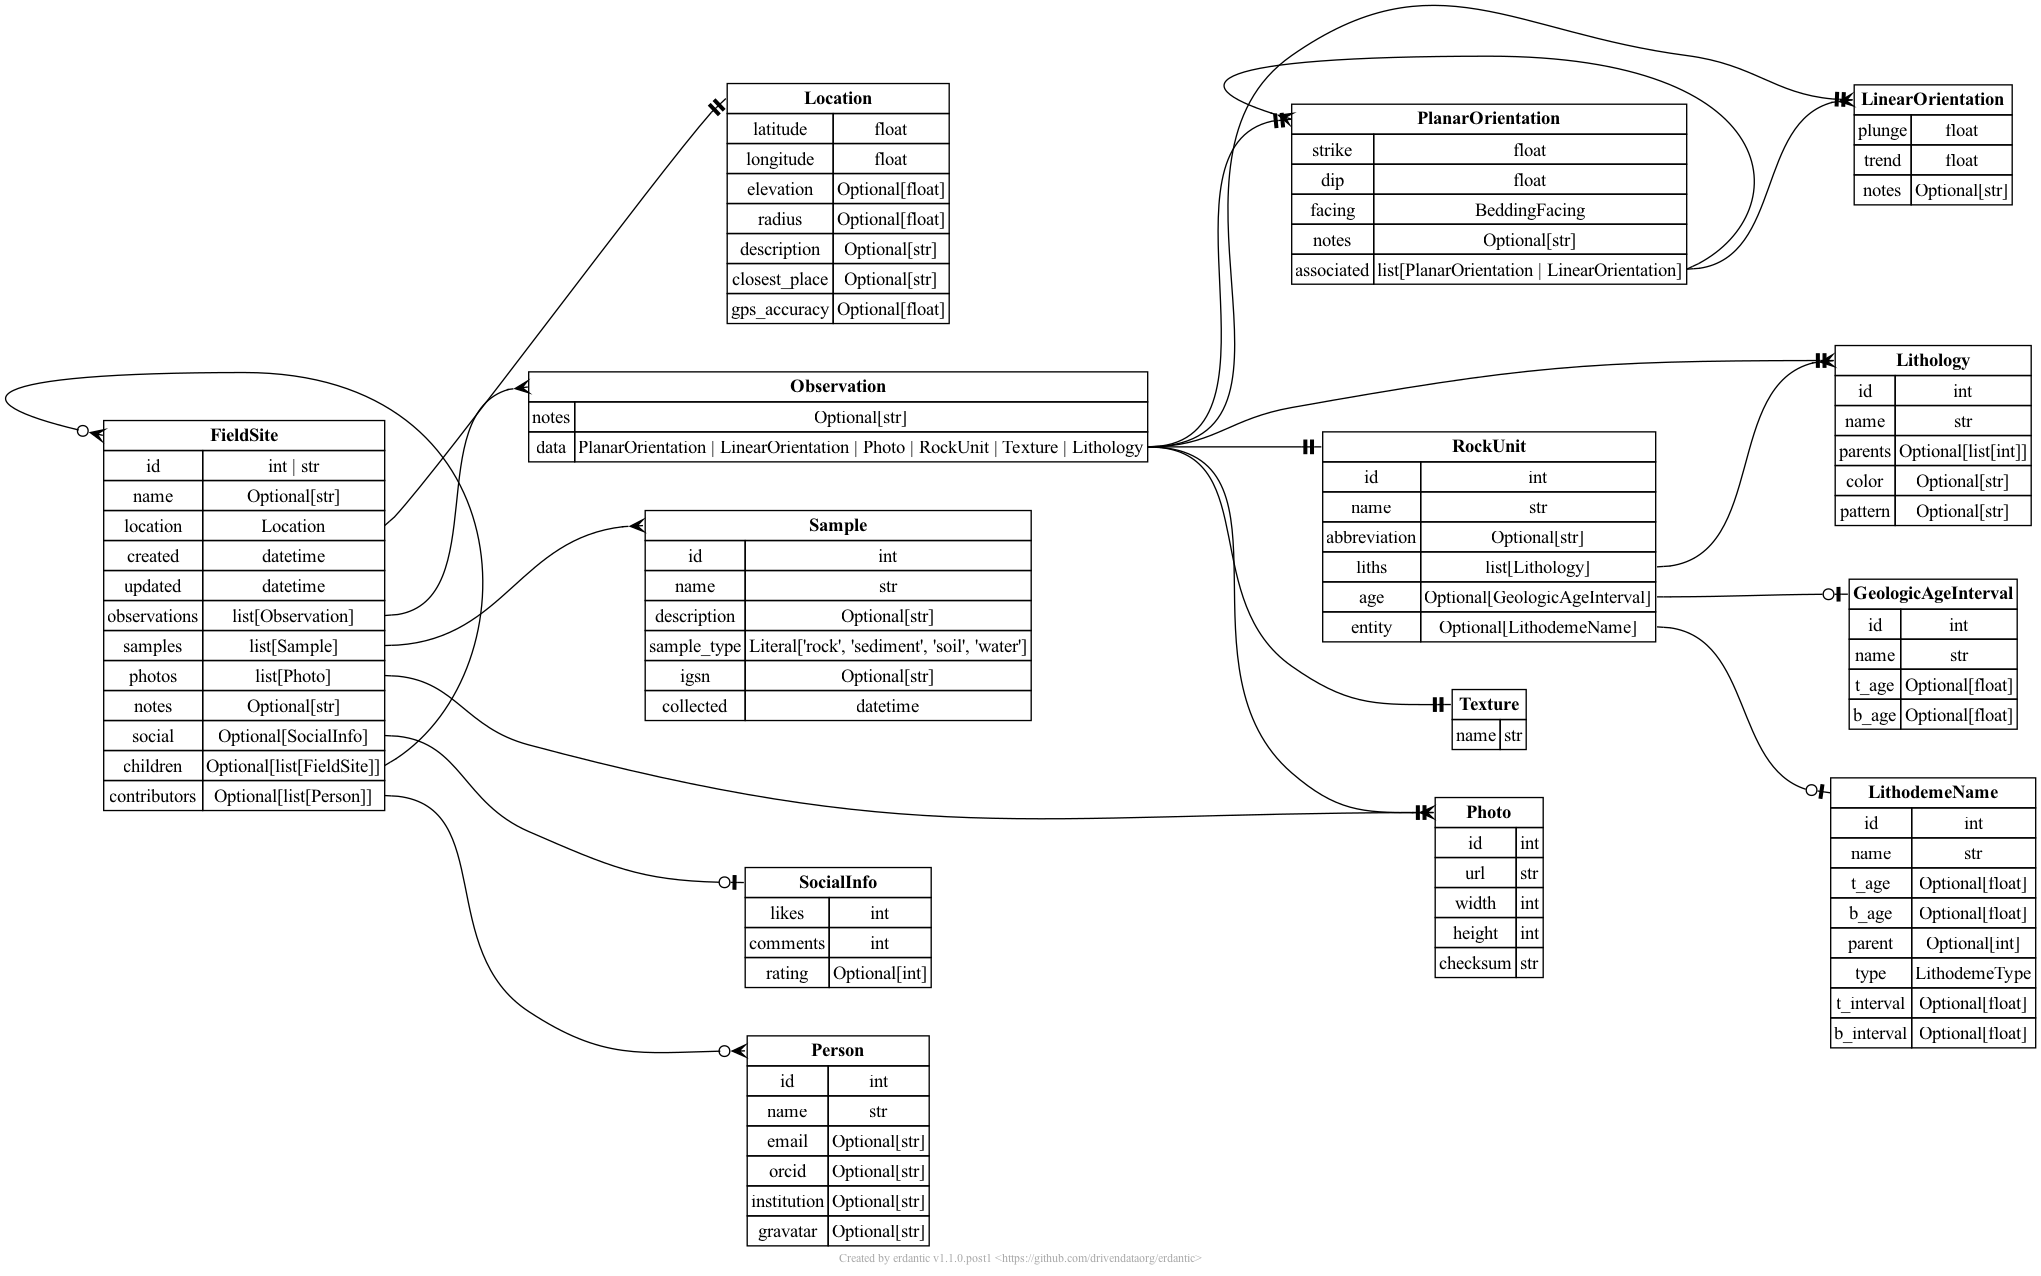
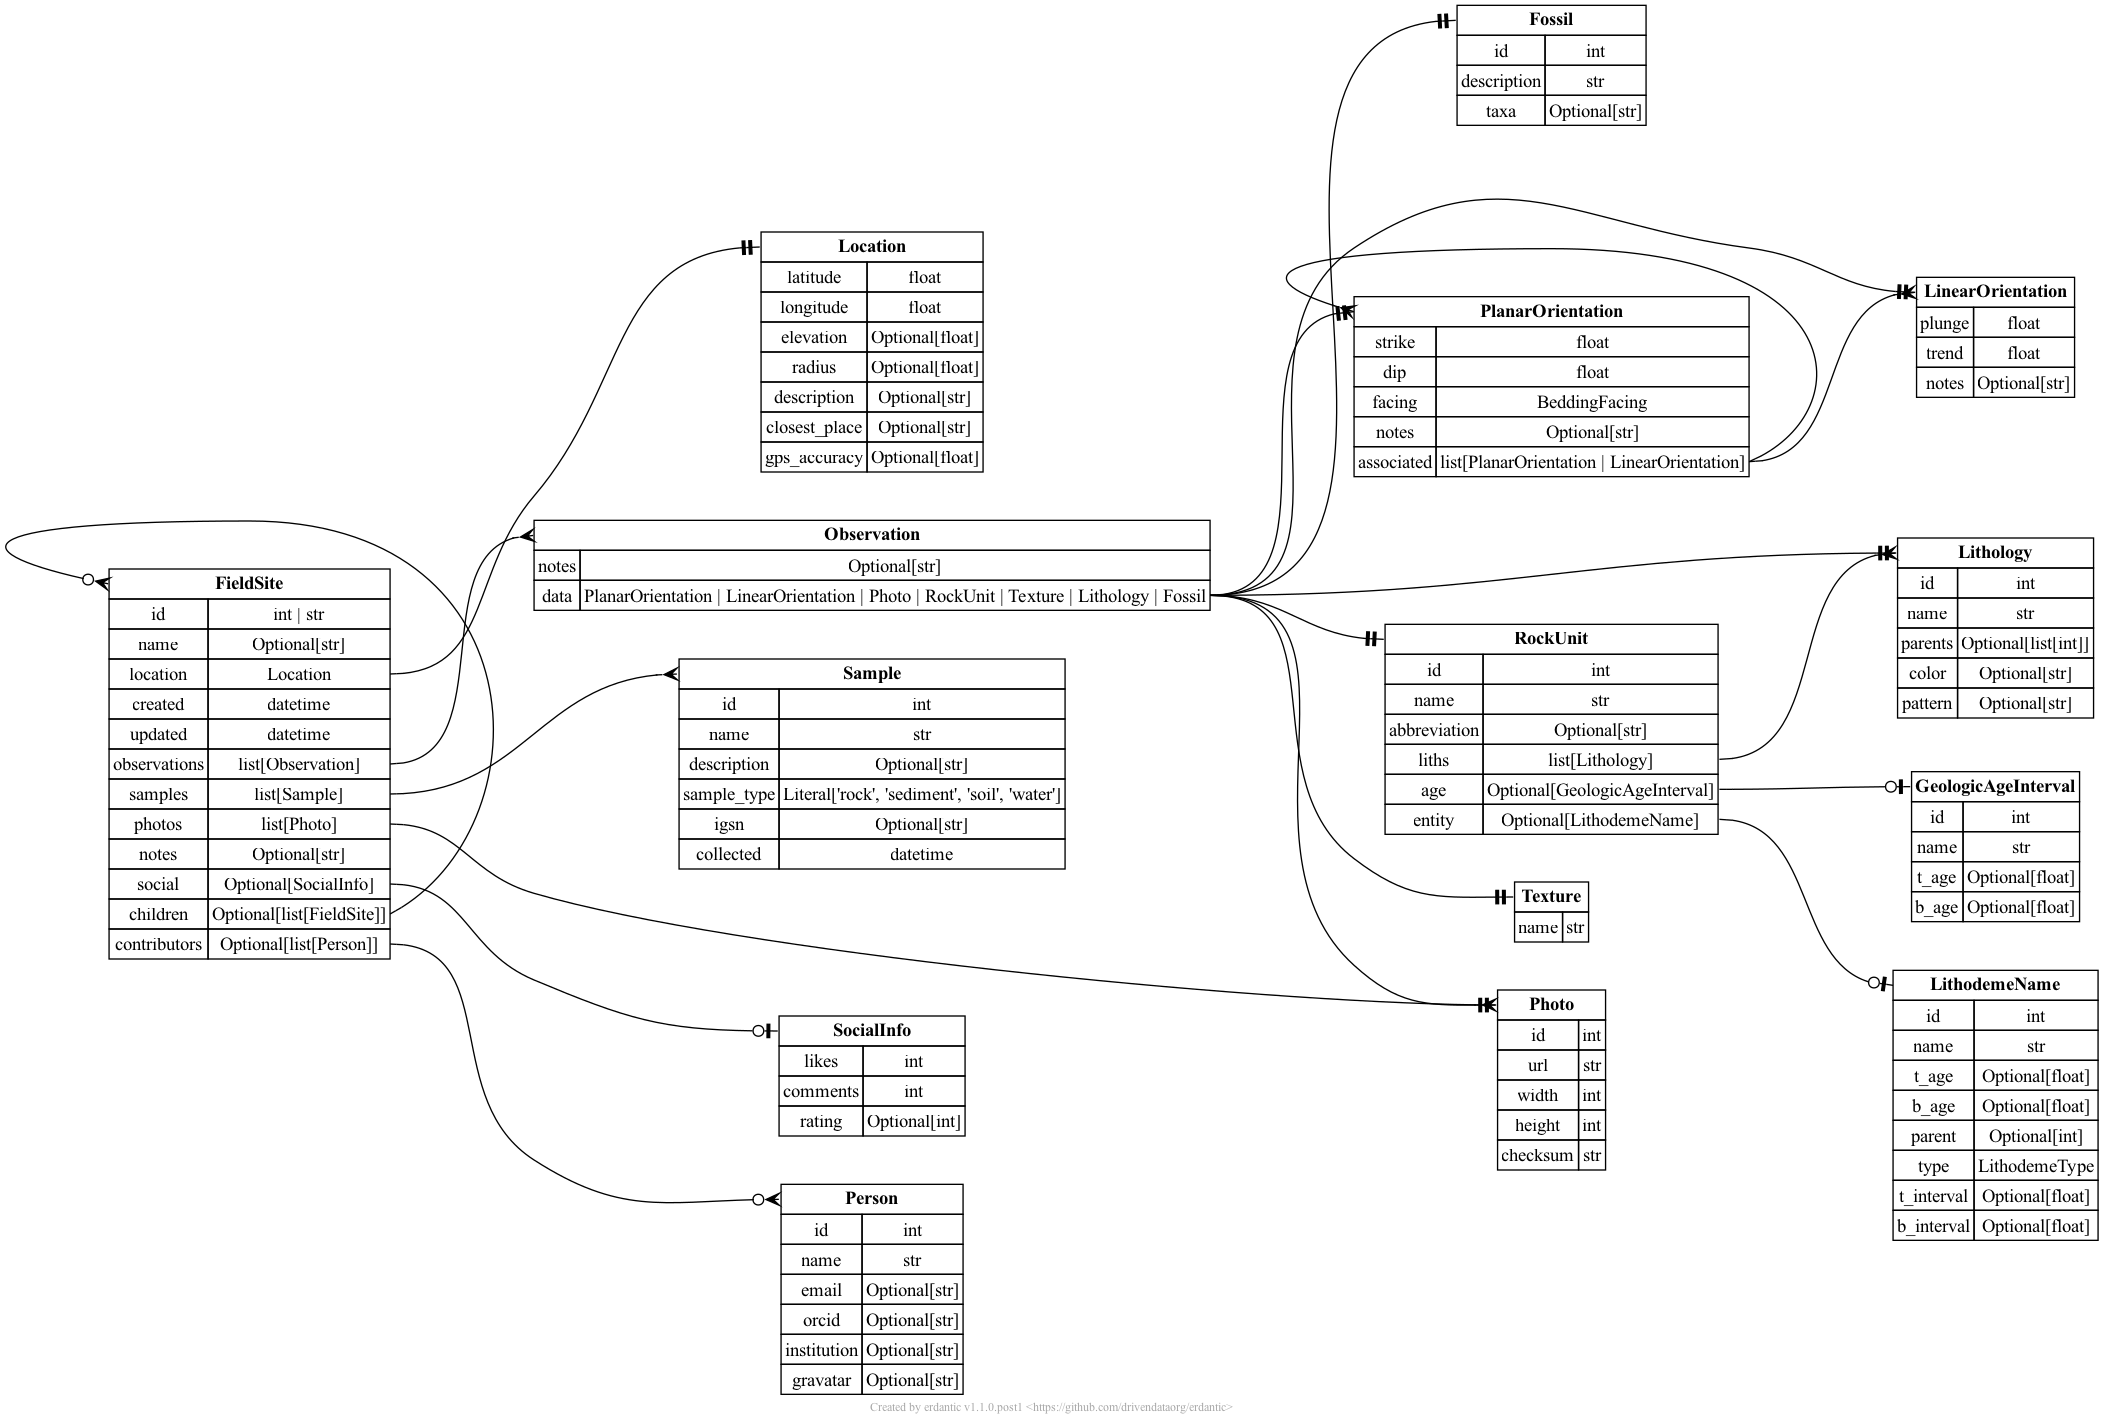
updated schemas

diff --git a/field_site_schemas/__init__.py b/field_site_schemas/__init__.py
@@ -90,7 +90,11 @@ class RockUnit(IdentifiedModel):
     age: Optional[GeologicAgeInterval] = None
     entity: Optional[LithodemeName] = None
 
-AnyData = Orientation | Photo | RockUnit | Texture | Lithology
+class Fossil(IdentifiedModel):
+    description: str
+    taxa: Optional[str] = None
+
+AnyData = Orientation | Photo | RockUnit | Texture | Lithology | Fossil
 
 class Observation(BaseModel):
     notes: Optional[str] = None
